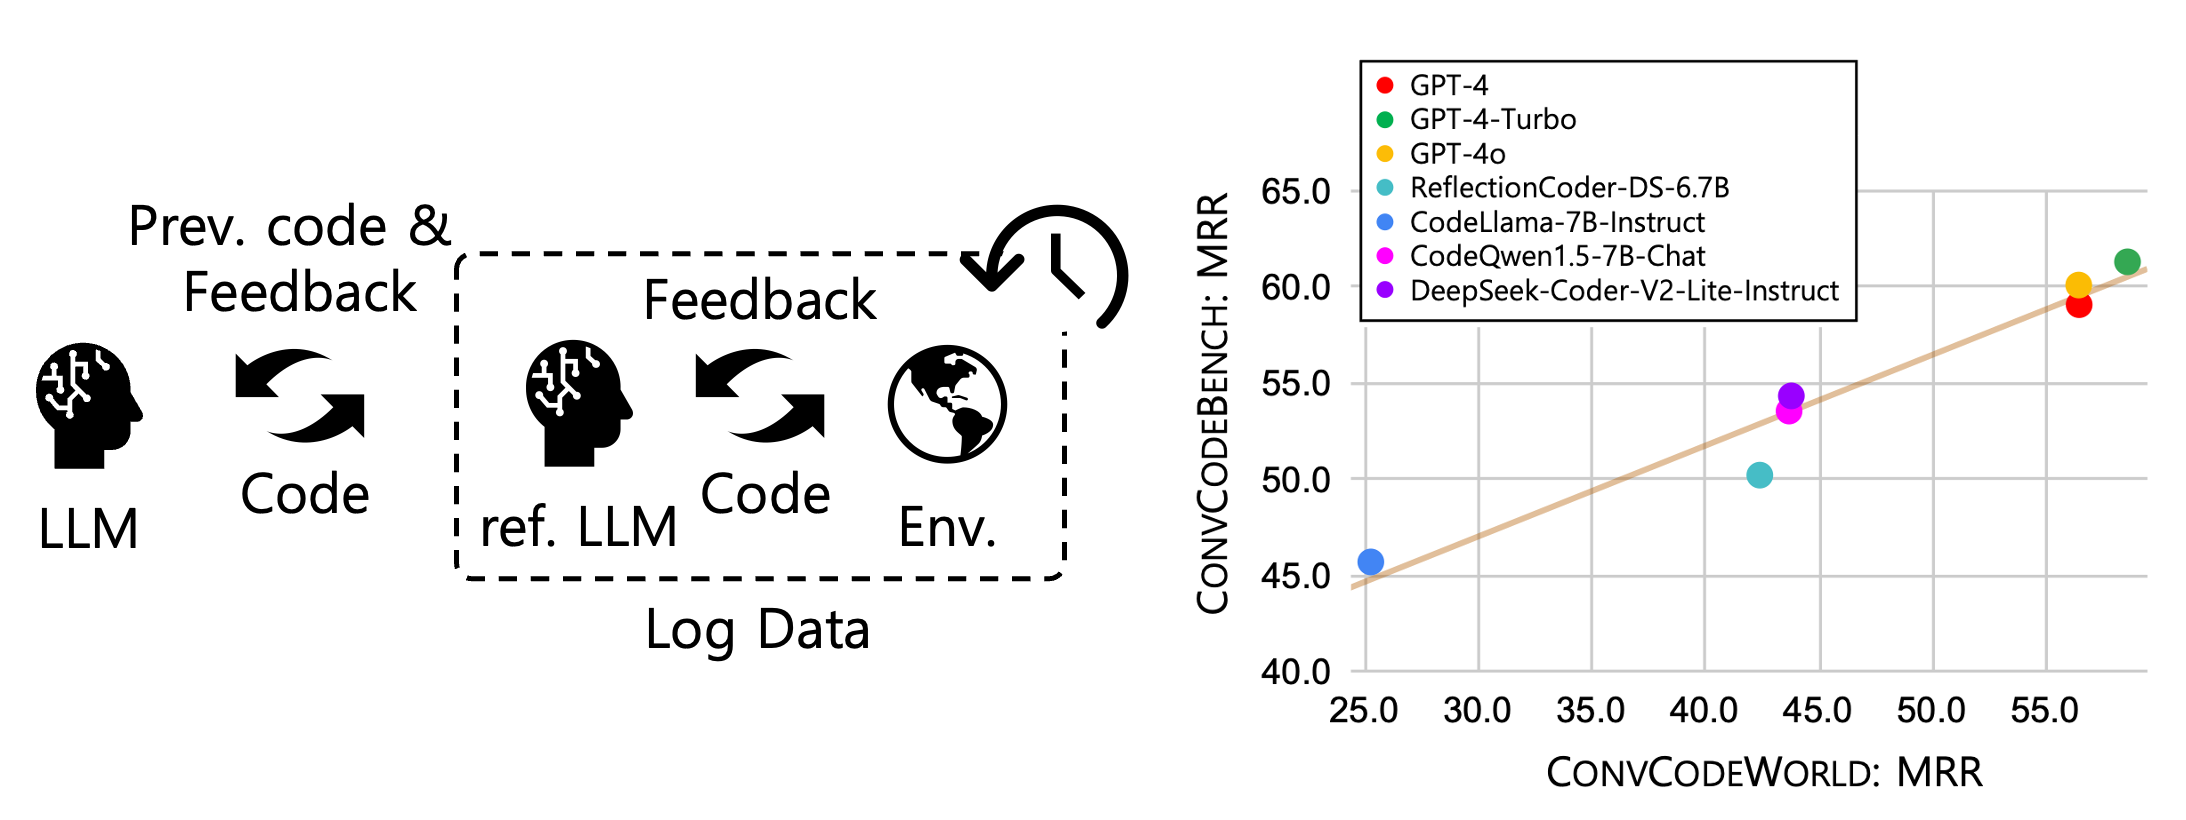
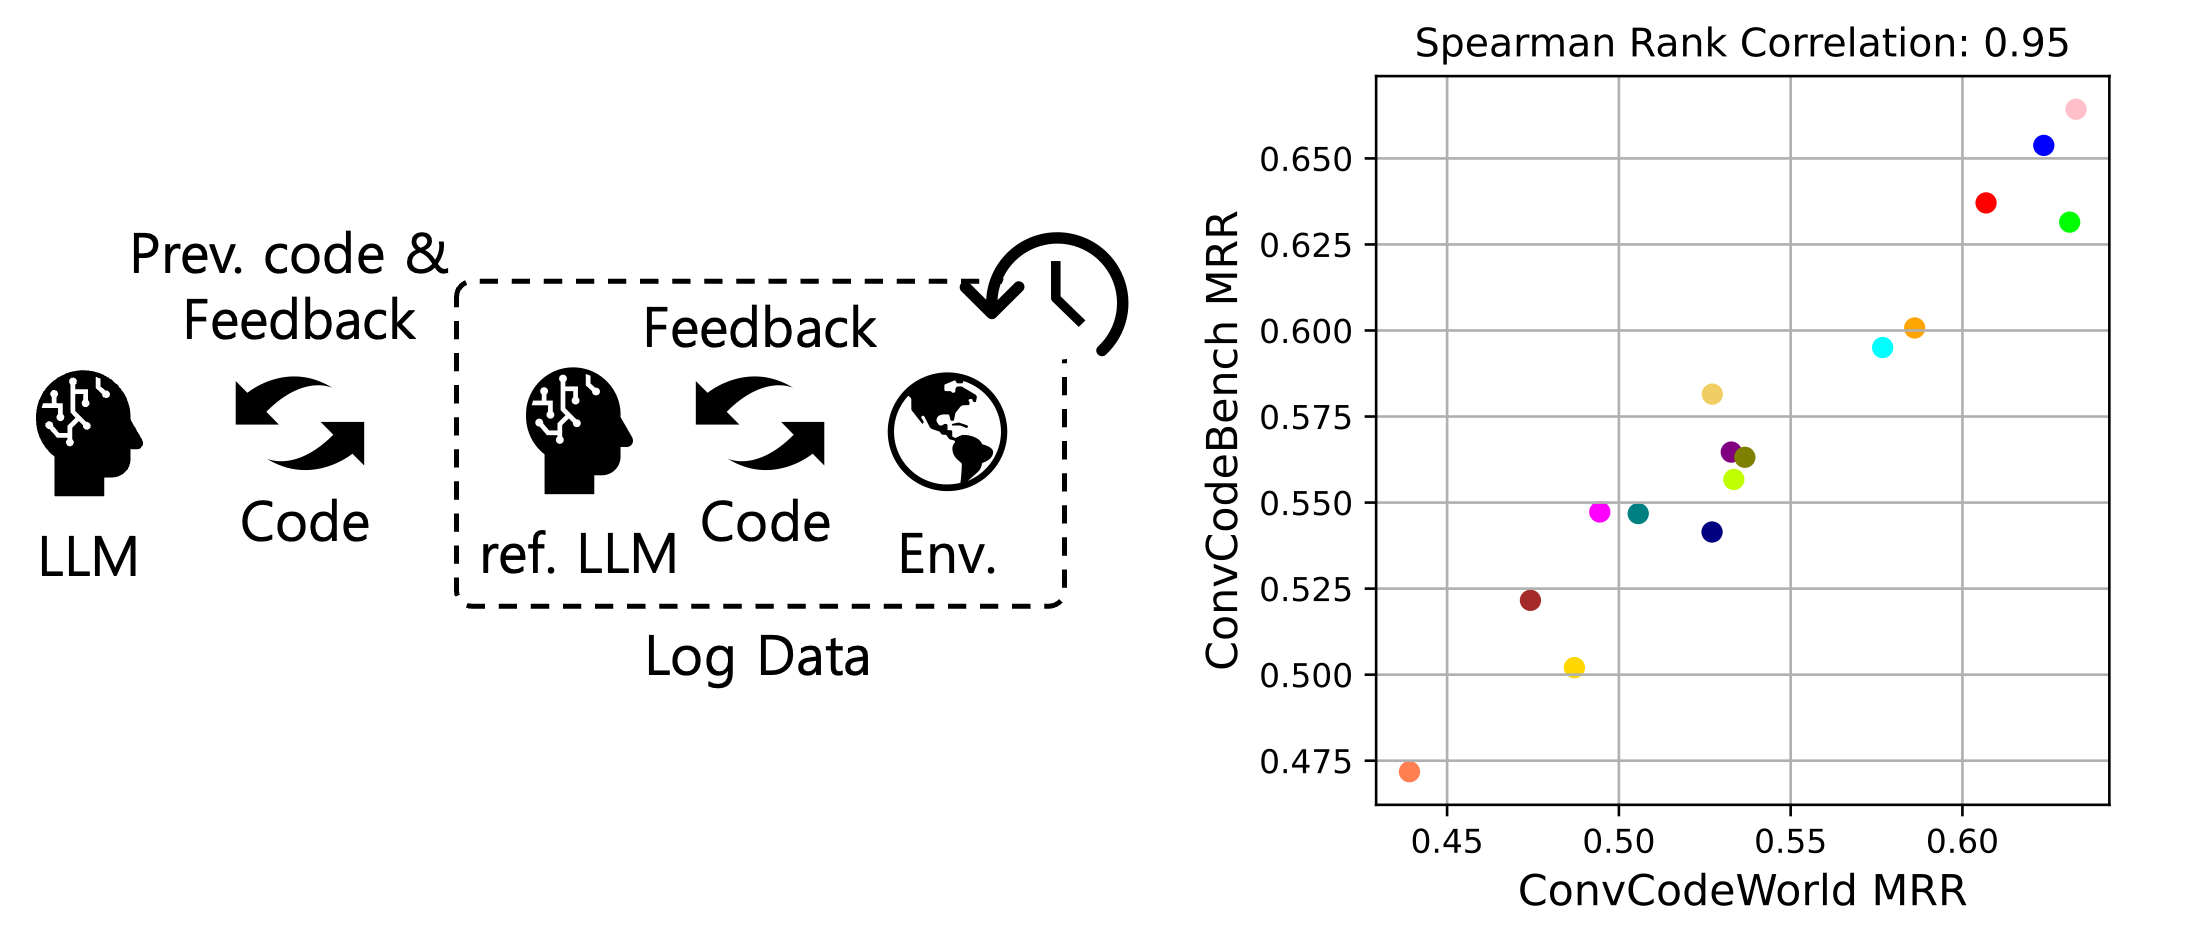
Reflect new correlation table and NL feedback in README

Changed region(s): [[0.0622, 0.0305, 0.9954, 0.9756], [0.0, 0.3963, 0.0622, 0.6707], [0.4666, 0.2439, 0.4977, 0.2744]]

diff --git a/README.md b/README.md
@@ -62,7 +62,7 @@ This environment incorporates a comprehensive categorization of feedback types t
 <p align="center">
 <img src="images/ConvCodeBench_note.png" width="86%" alt="ConvCodeBench">
 <br>
-<img src="images/ConvCodeBench_detail.png" width="100%" alt="ConvCodeBench">
+<img src="images/ConvCodeBench_detail.png" width="80%" alt="ConvCodeBench">
 </p>
 
 
